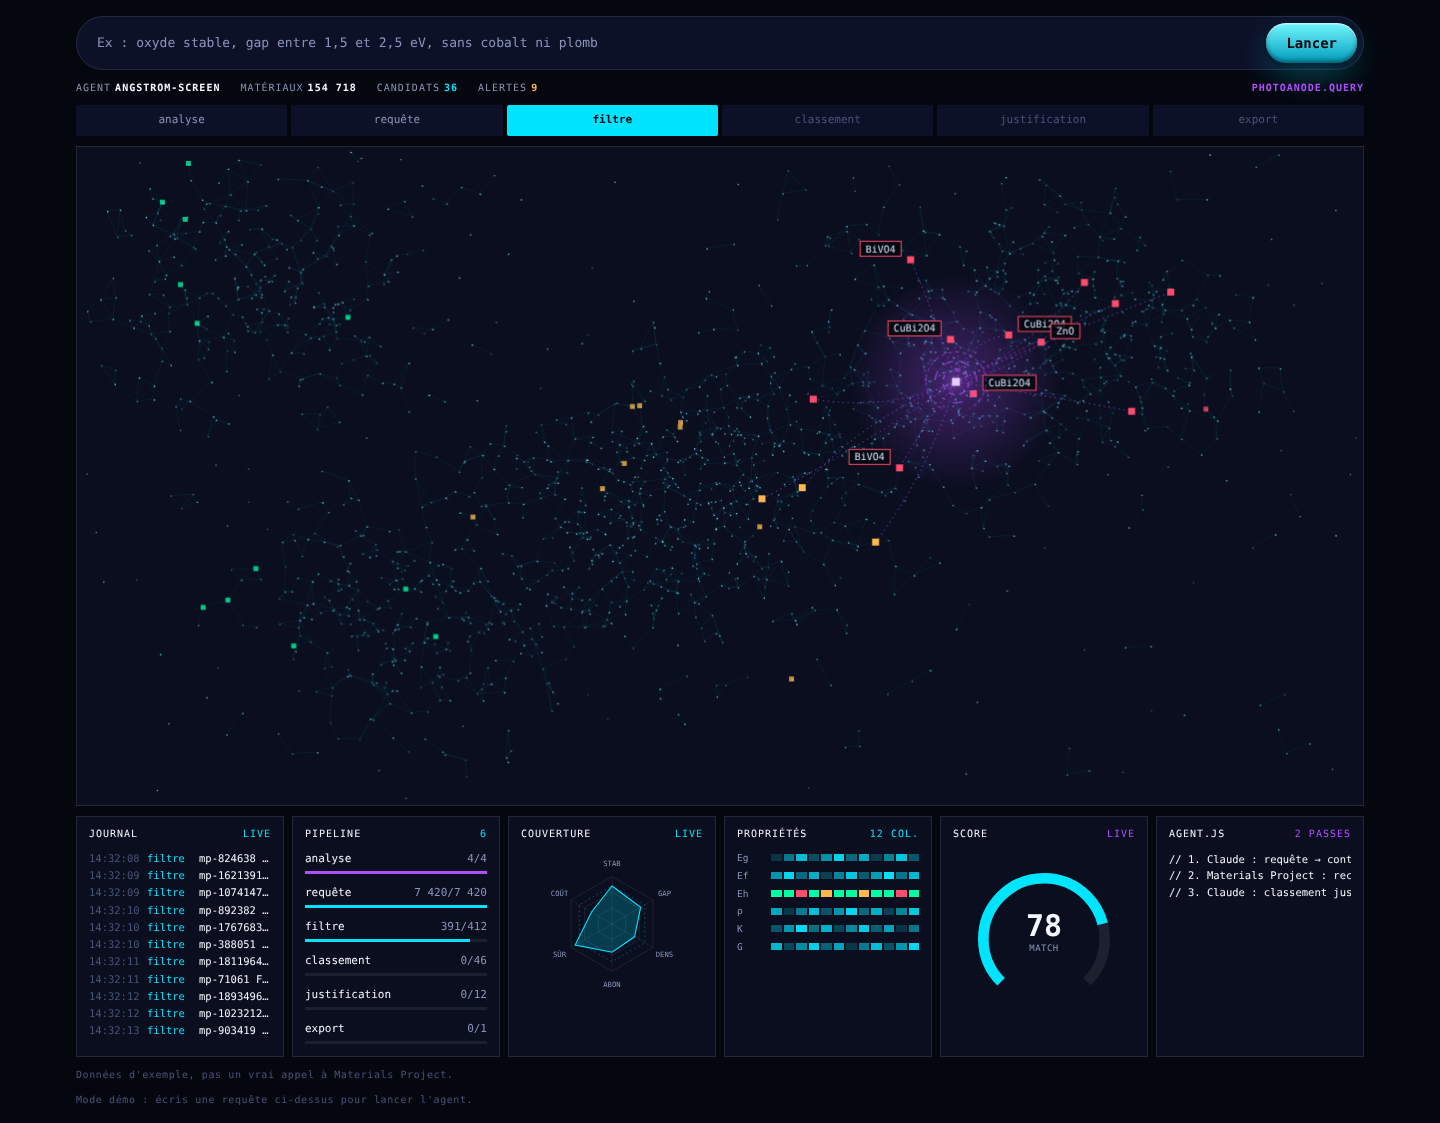
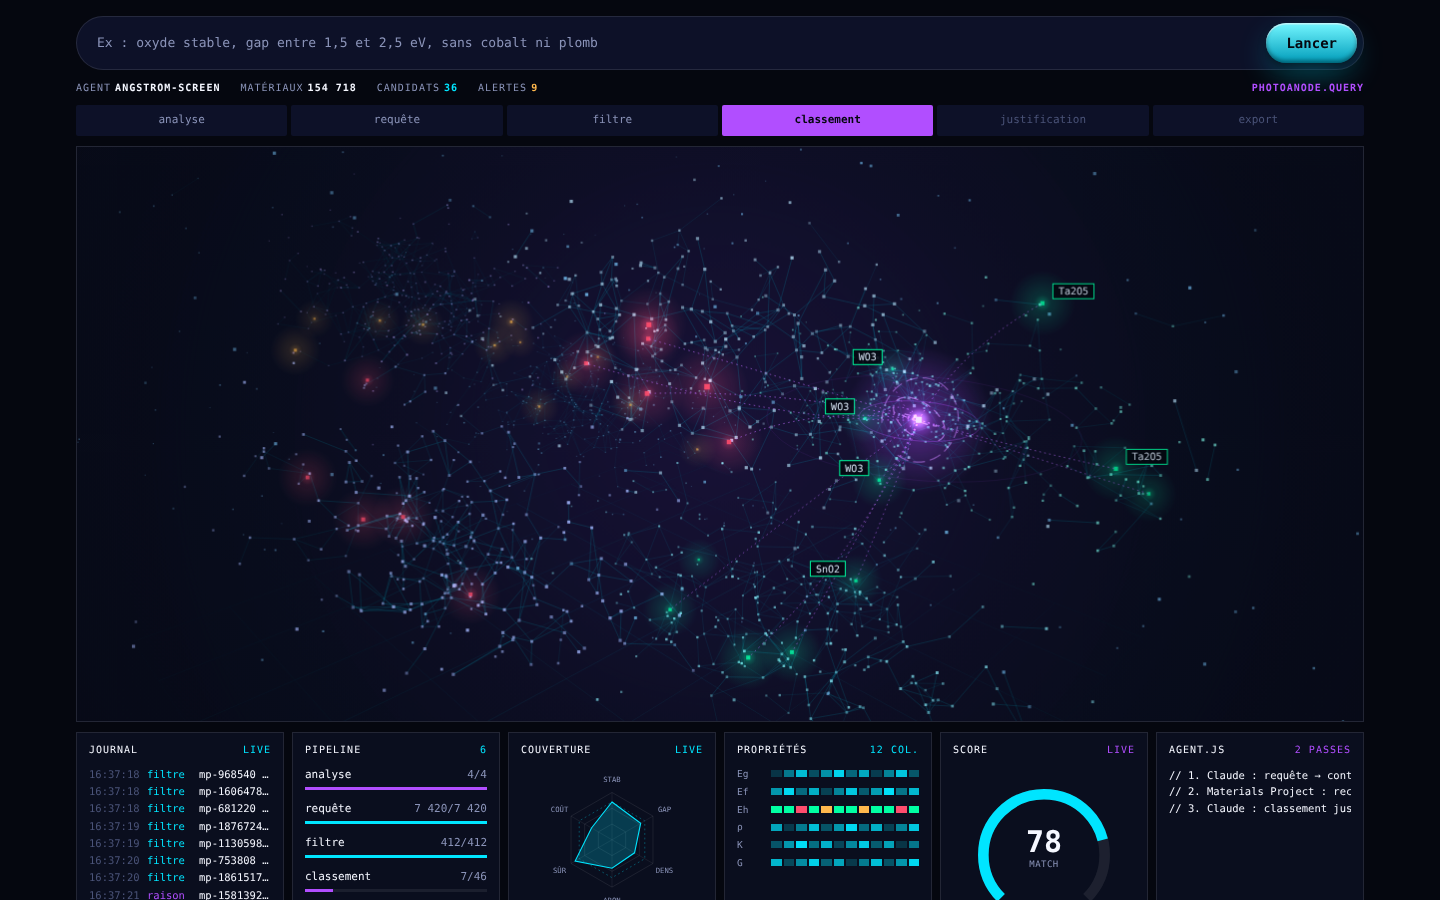
Champ de matériaux en 3D : perspective, orbite lente, parallaxe souris, brume de profondeur, halos additifs, ondes de lecture, anneaux orbitaux inclinés
Claude-Session: https://claude.ai/code/session_01Wu4MGs3PsRkXvtoSFz2Pch

diff --git a/src/lib/hud/AgentField.svelte b/src/lib/hud/AgentField.svelte
@@ -5,9 +5,13 @@
   let { families, candidates, focus = 0, seed = 7 } = $props(); // candidates: { formula, status: "stable"|"meta"|"unstable", cluster }[]
 
   const COL = { stable: '#00FFA3', meta: '#FFB84D', unstable: '#FF4D6D' };
+  // teinte des points par famille : du cyan au bleu glacé, avec une pointe de violet
+  const TINT = ['#8CF0FF', '#7FD0FF', '#A5B8FF', '#7DF5E6', '#B9A6FF', '#9FC4DD'];
+  const D = 3.3; // distance caméra
   let host, cv, rebuild = null;
 
   function rng(a) { return () => { a |= 0; a = (a + 0x6d2b79f5) | 0; let t = Math.imul(a ^ (a >>> 15), 1 | a); t = (t + Math.imul(t ^ (t >>> 7), 61 | t)) ^ t; return ((t ^ (t >>> 14)) >>> 0) / 4294967296; }; }
+  const clamp = (v, a = 0, b = 1) => Math.min(b, Math.max(a, v));
 
   $effect(() => {
     candidates.length; families.length;
@@ -15,79 +19,180 @@
   });
 
   onMount(() => {
-    const ctx = cv.getContext("2d"), bg = document.createElement('canvas'), bctx = bg.getContext('2d');
+    const ctx = cv.getContext("2d");
     const reduce = matchMedia('(prefers-reduced-motion: reduce)').matches;
-    let W = 0, H = 0, dpr = 1, raf = 0, last = 0, t0 = 0;
-    let pts = [];
-    let centers = [];
-    let cands = [];
-    const hub = { x: 0, y: 0 };
+    let W = 0, H = 0, dpr = 1, raf = 0, last = 0, t0 = 0, m = 600;
+    let N = 0, px, py, pz, pph, pc, pa, sx, sy, sc, zc; // points (Float32Array)
+    let edges = [], centers = [], cands = [];
+    const hub = { x: 0, y: 0, z: 0 }, cam = { x: 0, y: 0, z: 0 }, ptr = { x: 0, y: 0, sx: 0, sy: 0 };
+
+    // sprites lumineux pré-rendus (halo additif)
+    const sprite = (rgb) => { const c = document.createElement('canvas'); c.width = c.height = 64; const g = c.getContext('2d'), r = g.createRadialGradient(32, 32, 0, 32, 32, 32); r.addColorStop(0, `rgba(${rgb},.95)`); r.addColorStop(0.25, `rgba(${rgb},.35)`); r.addColorStop(1, `rgba(${rgb},0)`); g.fillStyle = r; g.fillRect(0, 0, 64, 64); return c; };
+    const SPR = { stable: sprite('0,255,163'), meta: sprite('255,184,77'), unstable: sprite('255,77,109'), hub: sprite('177,78,255'), hubCore: sprite('233,204,255') };
 
     function build() {
-      const r = host.getBoundingClientRect(); W = r.width; H = r.height; dpr = Math.min(2, devicePixelRatio || 1);
-      cv.width = bg.width = Math.round(W * dpr); cv.height = bg.height = Math.round(H * dpr);
-      const rnd = rng(seed), m = Math.min(W, H), N = Math.round(Math.max(700, Math.min(2300, (W * H) / 420)));
-      const n = families.length;
-      centers = families.map((_, i) => ({ x: (0.15 + 0.7 * ((i * 0.381) % 1)) * W, y: (0.22 + 0.58 * ((i * 0.618) % 1)) * H, s: 0.13 * m }));
+      const r = host.getBoundingClientRect(); W = r.width; H = r.height; dpr = Math.min(2, devicePixelRatio || 1); m = Math.min(W, H);
+      cv.width = Math.round(W * dpr); cv.height = Math.round(H * dpr);
+      const rnd = rng(seed), n = Math.max(1, families.length), asp = clamp((W / H) * 0.8, 1, 1.9);
+      N = Math.round(Math.max(900, Math.min(2600, (W * H) / 380)));
+      // centres d'amas répartis en spirale sur une sphère aplatie
+      centers = families.map((_, i) => { const y = 1 - (2 * (i + 0.5)) / n, rr = Math.sqrt(Math.max(0, 1 - y * y)), th = i * 2.399963; return { x: Math.cos(th) * rr * 0.95 * asp, y: y * 0.6, z: Math.sin(th) * rr * 0.95, s: 0.24 }; });
       const g = () => Math.sqrt(-2 * Math.log(rnd() + 1e-9)) * Math.cos(6.2831853 * rnd());
-      pts = [];
-      while (pts.length < N) {
-        const c = rnd() < 0.1 ? -1 : Math.floor(rnd() * n);
-        const x = c < 0 ? rnd() * W : centers[c].x + g() * centers[c].s, y = c < 0 ? rnd() * H : centers[c].y + g() * centers[c].s * 0.8;
-        if (x < 4 || y < 4 || x > W - 4 || y > H - 4) continue;
-        pts.push({ x, y, c, a: 0.25 + rnd() * 0.6 });
+      [px, py, pz, pph, pa, sx, sy, sc, zc] = Array.from({ length: 9 }, () => new Float32Array(N));
+      pc = new Int8Array(N);
+      for (let i = 0; i < N; i++) {
+        const c = rnd() < 0.14 ? -1 : Math.floor(rnd() * n);
+        if (c < 0) { px[i] = (rnd() * 2 - 1) * 1.5 * asp; py[i] = (rnd() * 2 - 1) * 1.1; pz[i] = (rnd() * 2 - 1) * 1.5; }
+        else { const k = centers[c]; px[i] = k.x + g() * k.s * asp; py[i] = k.y + g() * k.s * 0.75; pz[i] = k.z + g() * k.s; }
+        pc[i] = c; pph[i] = rnd() * 6.2832; pa[i] = 0.5 + rnd() * 0.5;
       }
-      bctx.setTransform(dpr, 0, 0, dpr, 0, 0); bctx.clearRect(0, 0, W, H); bctx.lineWidth = 0.6;
-      const cell = 30, grid = new Map();
-      pts.forEach((p, i) => { const k = `${(p.x / cell) | 0},${(p.y / cell) | 0}`; (grid.get(k) ?? grid.set(k, []).get(k)).push(i); });
-      pts.forEach((p, i) => {
-        const cx = (p.x / cell) | 0, cy = (p.y / cell) | 0, near = [];
-        for (let dx = -1; dx <= 1; dx++) for (let dy = -1; dy <= 1; dy++) for (const j of grid.get(`${cx + dx},${cy + dy}`) ?? []) { if (j <= i) continue; const d = Math.hypot(pts[j].x - p.x, pts[j].y - p.y); if (d < 30) near.push([d, j]); }
-        near.sort((a, b) => a[0] - b[0]).slice(0, 2).forEach(([, j]) => { bctx.strokeStyle = 'rgba(0,229,255,.13)'; bctx.beginPath(); bctx.moveTo(p.x, p.y); bctx.lineTo(pts[j].x, pts[j].y); bctx.stroke(); });
-      });
-      pts.forEach((p) => { bctx.fillStyle = `rgba(140,240,255,${p.a})`; bctx.fillRect(p.x, p.y, 1.4, 1.4); });
-      // pose chaque candidat sur un point de son amas
+      // arêtes : 2 plus proches voisins en 3D (grille spatiale)
+      const cell = 0.16, key = (x, y, z) => `${Math.floor(x / cell)},${Math.floor(y / cell)},${Math.floor(z / cell)}`, grid = new Map();
+      for (let i = 0; i < N; i++) { const k = key(px[i], py[i], pz[i]); (grid.get(k) ?? grid.set(k, []).get(k)).push(i); }
+      edges = [];
+      for (let i = 0; i < N; i++) {
+        const cx = Math.floor(px[i] / cell), cy = Math.floor(py[i] / cell), cz = Math.floor(pz[i] / cell), near = [];
+        for (let a = -1; a <= 1; a++) for (let b = -1; b <= 1; b++) for (let c = -1; c <= 1; c++) for (const j of grid.get(`${cx + a},${cy + b},${cz + c}`) ?? []) { if (j <= i) continue; const d = Math.hypot(px[j] - px[i], py[j] - py[i], pz[j] - pz[i]); if (d < cell) near.push([d, j]); }
+        near.sort((p, q) => p[0] - q[0]).slice(0, 2).forEach(([, j]) => edges.push(i, j));
+      }
       cands = candidates.map((c) => {
-        const pool = pts.filter((p) => p.c === c.cluster); const p = pool[Math.floor(rnd() * pool.length)] ?? pts[0];
-        return { x: p.x, y: p.y, f: c.formula, st: c.status === 'meta' ? 'meta' : c.status, c: c.cluster };
+        const pool = []; for (let i = 0; i < N; i++) if (pc[i] === c.cluster) pool.push(i);
+        const i = pool.length ? pool[Math.floor(rnd() * pool.length)] : 0;
+        return { x: px[i], y: py[i], z: pz[i], f: c.formula, st: c.status === 'meta' ? 'meta' : c.status, c: c.cluster, sx: 0, sy: 0, sc: 1, zc: D };
       });
-      hub.x = centers[focus]?.x ?? W / 2; hub.y = centers[focus]?.y ?? H / 2;
+      const k = centers[focus] ?? centers[0] ?? { x: 0, y: 0, z: 0 };
+      hub.x = k.x; hub.y = k.y; hub.z = k.z; cam.x = k.x * 0.5; cam.y = k.y * 0.5; cam.z = k.z * 0.5;
     }
 
+    // projection perspective (rotation yaw puis pitch autour de la cible caméra)
+    let cY = 1, sY = 0, cP = 1, sP = 0, F = 600;
+    function proj(x, y, z, out) {
+      const vx = x - cam.x, vy = y - cam.y, vz = z - cam.z;
+      const x1 = vx * cY + vz * sY, z1 = -vx * sY + vz * cY;
+      const y2 = vy * cP - z1 * sP, z2 = vy * sP + z1 * cP + D;
+      const s = z2 > 0.25 ? F / z2 : 0;
+      out.x = W / 2 + x1 * s; out.y = H / 2 + y2 * s; out.s = s; out.z = z2; return out;
+    }
+    const P = { x: 0, y: 0, s: 0, z: 0 }, Q = { x: 0, y: 0, s: 0, z: 0 }, R = { x: 0, y: 0, s: 0, z: 0 };
+    const depthT = (z) => clamp((z - (D - 1.5)) / 3.2); // 0 proche → 1 loin
+
     function draw(t, dt) {
-      const tgt = centers[focus] ?? centers[0]; hub.x += (tgt.x - hub.x) * Math.min(1, dt * 1.7); hub.y += (tgt.y - hub.y) * Math.min(1, dt * 1.7);
-      const reach = [...cands].map((c) => ({ c, d: Math.hypot(c.x - hub.x, c.y - hub.y) })).sort((a, b) => a.d - b.d).slice(0, 14);
-      ctx.setTransform(dpr, 0, 0, dpr, 0, 0); ctx.clearRect(0, 0, W, H); ctx.drawImage(bg, 0, 0, W, H);
-      cands.forEach((c) => { ctx.fillStyle = COL[c.st]; ctx.globalAlpha = 0.75; ctx.fillRect(c.x - 2.5, c.y - 2.5, 5, 5); ctx.globalAlpha = 1; });
-      const gr = ctx.createRadialGradient(hub.x, hub.y, 0, hub.x, hub.y, 110); gr.addColorStop(0, 'rgba(177,78,255,.34)'); gr.addColorStop(1, 'rgba(177,78,255,0)');
-      ctx.fillStyle = gr; ctx.fillRect(hub.x - 110, hub.y - 110, 220, 220);
-      reach.forEach(({ c }, k) => {
-        const dx = c.x - hub.x, dy = c.y - hub.y, L = Math.hypot(dx, dy) || 1, w = Math.sin(t * 1.5 + k * 1.7) * 14 + (k % 2 ? 10 : -10);
-        const mx = (hub.x + c.x) / 2 + (-dy / L) * w, my = (hub.y + c.y) / 2 + (dx / L) * w;
-        ctx.strokeStyle = 'rgba(177,78,255,.7)'; ctx.lineWidth = 1; ctx.setLineDash([1.5, 3.5]); ctx.beginPath(); ctx.moveTo(hub.x, hub.y); ctx.quadraticCurveTo(mx, my, c.x, c.y); ctx.stroke(); ctx.setLineDash([]);
-        ctx.fillStyle = COL[c.st]; ctx.fillRect(c.x - 3.5, c.y - 3.5, 7, 7);
+      const k = centers[focus] ?? centers[0]; if (!k) return;
+      const e = Math.min(1, dt * 1.6);
+      hub.x += (k.x - hub.x) * e; hub.y += (k.y - hub.y) * e; hub.z += (k.z - hub.z) * e;
+      cam.x += (hub.x * 0.55 - cam.x) * e * 0.8; cam.y += (hub.y * 0.55 - cam.y) * e * 0.8; cam.z += (hub.z * 0.55 - cam.z) * e * 0.8;
+      ptr.sx += (ptr.x - ptr.sx) * Math.min(1, dt * 3); ptr.sy += (ptr.y - ptr.sy) * Math.min(1, dt * 3);
+      const yaw = (reduce ? 0.6 : t * 0.11) + ptr.sx * 0.45, pitch = 0.32 + Math.sin(t * 0.17) * 0.05 + ptr.sy * 0.22;
+      cY = Math.cos(yaw); sY = Math.sin(yaw); cP = Math.cos(pitch); sP = Math.sin(pitch); F = m * 1.5;
+
+      ctx.setTransform(dpr, 0, 0, dpr, 0, 0); ctx.clearRect(0, 0, W, H);
+      const bgG = ctx.createRadialGradient(W / 2, H * 0.48, 0, W / 2, H * 0.48, Math.max(W, H) * 0.7);
+      bgG.addColorStop(0, 'rgba(46,24,92,.42)'); bgG.addColorStop(0.55, 'rgba(12,16,40,.25)'); bgG.addColorStop(1, 'rgba(5,7,15,0)');
+      ctx.fillStyle = bgG; ctx.fillRect(0, 0, W, H);
+
+      // sol en perspective (repère de profondeur)
+      ctx.lineWidth = 1; ctx.strokeStyle = 'rgba(0,229,255,1)';
+      for (let i = -4; i <= 4; i++) for (const ax of [0, 1]) {
+        const a = ax ? proj(i * 0.4, 1.05, -1.6, P) : proj(-1.6, 1.05, i * 0.4, P), b = ax ? proj(i * 0.4, 1.05, 1.6, Q) : proj(1.6, 1.05, i * 0.4, Q);
+        if (!P.s || !Q.s) continue;
+        ctx.globalAlpha = 0.07 * (1 - Math.abs(i) / 5); ctx.beginPath(); ctx.moveTo(P.x, P.y); ctx.lineTo(Q.x, Q.y); ctx.stroke();
+      }
+
+      // points : légère respiration dans le temps (4e dimension)
+      for (let i = 0; i < N; i++) {
+        const ph = pph[i], w = reduce ? 0 : 0.018;
+        const x = px[i] + Math.sin(t * 0.6 + ph) * w, y = py[i] + Math.cos(t * 0.5 + ph * 1.3) * w, z = pz[i] + Math.sin(t * 0.45 + ph * 0.7) * w;
+        proj(x, y, z, P); sx[i] = P.x; sy[i] = P.y; sc[i] = P.s; zc[i] = P.z;
+      }
+      // arêtes par 3 tranches de profondeur (un seul tracé par tranche)
+      ctx.lineWidth = 0.7; ctx.strokeStyle = 'rgba(0,229,255,1)';
+      const alphas = [0.2, 0.11, 0.05];
+      for (let b = 0; b < 3; b++) {
+        ctx.globalAlpha = alphas[b]; ctx.beginPath();
+        for (let q = 0; q < edges.length; q += 2) {
+          const i = edges[q], j = edges[q + 1]; if (!sc[i] || !sc[j]) continue;
+          if (Math.min(2, (depthT((zc[i] + zc[j]) / 2) * 3) | 0) !== b) continue;
+          ctx.moveTo(sx[i], sy[i]); ctx.lineTo(sx[j], sy[j]);
+        }
+        ctx.stroke();
+      }
+      for (let f = -1; f < TINT.length; f++) {
+        ctx.fillStyle = f < 0 ? '#6FB6E8' : TINT[f];
+        for (let i = 0; i < N; i++) {
+          if (pc[i] !== f || !sc[i]) continue;
+          const dt_ = depthT(zc[i]), s = clamp(sc[i] * 0.0095 * (1 - dt_ * 0.35), 0.9, 3.2);
+          ctx.globalAlpha = pa[i] * (1 - dt_ * 0.7); ctx.fillRect(sx[i] - s / 2, sy[i] - s / 2, s, s);
+        }
+      }
+      ctx.globalAlpha = 1;
+
+      // ondes de lecture : coquilles qui s'étendent depuis le hub
+      for (let w = 0; w < 2; w++) {
+        const ph = ((t * 0.32 + w * 0.5) % 1), rad = 0.04 + ph * 0.7; ctx.strokeStyle = 'rgba(177,78,255,1)'; ctx.globalAlpha = (1 - ph) * 0.35; ctx.lineWidth = 1; ctx.beginPath();
+        for (let a = 0; a <= 64; a++) { const th = (a / 64) * 6.2832; proj(hub.x + Math.cos(th) * rad, hub.y, hub.z + Math.sin(th) * rad, P); a ? ctx.lineTo(P.x, P.y) : ctx.moveTo(P.x, P.y); }
+        ctx.stroke();
+      }
+      ctx.globalAlpha = 1;
+
+      // candidats triés du plus loin au plus proche, halos additifs
+      cands.forEach((c) => { proj(c.x, c.y, c.z, P); c.sx = P.x; c.sy = P.y; c.sc = P.s; c.zc = P.z; c.d = Math.hypot(c.x - hub.x, c.y - hub.y, c.z - hub.z); });
+      const order = [...cands].filter((c) => c.sc).sort((a, b) => b.zc - a.zc);
+      ctx.globalCompositeOperation = 'lighter';
+      order.forEach((c) => { const g = c.sc * 0.2; ctx.globalAlpha = 0.55 * (1 - depthT(c.zc) * 0.6); ctx.drawImage(SPR[c.st], c.sx - g / 2, c.sy - g / 2, g, g); });
+      ctx.globalCompositeOperation = 'source-over';
+      order.forEach((c) => { const s = Math.max(3, c.sc * 0.014) * (1 - depthT(c.zc) * 0.3); ctx.globalAlpha = 1 - depthT(c.zc) * 0.55; ctx.fillStyle = COL[c.st]; ctx.fillRect(c.sx - s / 2, c.sy - s / 2, s, s); });
+      ctx.globalAlpha = 1;
+
+      // filaments vers les candidats les plus proches du hub
+      proj(hub.x, hub.y, hub.z, R);
+      const reach = [...cands].filter((c) => c.sc).sort((a, b) => a.d - b.d).slice(0, 14);
+      reach.forEach((c, i) => {
+        const dx = c.x - hub.x, dy = c.y - hub.y, dz = c.z - hub.z, L = Math.hypot(dx, dy, dz) || 1, w = (Math.sin(t * 1.5 + i * 1.7) * 0.07 + (i % 2 ? 0.05 : -0.05));
+        proj((hub.x + c.x) / 2 + (-dz / L) * w, (hub.y + c.y) / 2 + w * 0.6, (hub.z + c.z) / 2 + (dx / L) * w, Q);
+        ctx.strokeStyle = 'rgba(190,110,255,1)'; ctx.globalAlpha = 0.75 * (1 - depthT(c.zc) * 0.5); ctx.lineWidth = 1; ctx.setLineDash([1.5, 3.5]); ctx.beginPath(); ctx.moveTo(R.x, R.y); ctx.quadraticCurveTo(Q.x, Q.y, c.sx, c.sy); ctx.stroke(); ctx.setLineDash([]);
       });
+      ctx.globalAlpha = 1;
+
+      // étiquettes (les plus proches, face caméra)
       ctx.font = '10px JetBrains Mono, ui-monospace, monospace';
-      reach.slice(0, 6).forEach(({ c }) => {
-        const w = ctx.measureText(c.f).width + 12; let lx = c.x > hub.x ? c.x + 9 : c.x - w - 9, ly = c.y - 19;
-        lx = Math.min(W - w - 4, Math.max(4, lx)); ly = Math.min(H - 8, Math.max(4, ly));
+      reach.filter((c) => depthT(c.zc) < 0.75).slice(0, 6).forEach((c) => {
+        const w = ctx.measureText(c.f).width + 12; let lx = c.sx > R.x ? c.sx + 10 : c.sx - w - 10, ly = c.sy - 20;
+        lx = clamp(lx, 4, W - w - 4); ly = clamp(ly, 4, H - 20);
         ctx.fillStyle = 'rgba(5,7,15,.86)'; ctx.fillRect(lx, ly, w, 16); ctx.strokeStyle = COL[c.st]; ctx.strokeRect(lx + 0.5, ly + 0.5, w - 1, 15); ctx.fillStyle = '#D5E3F2'; ctx.fillText(c.f, lx + 6, ly + 11.5);
       });
-      ([[13, 0.9, 6], [21, -0.6, 10], [30, 0.4, 4]]).forEach(([r, s, d], k) => {
-        ctx.strokeStyle = `rgba(177,78,255,${0.9 - k * 0.2})`; ctx.lineWidth = 1.2; ctx.setLineDash([d, d * 0.8]); ctx.beginPath(); ctx.arc(hub.x, hub.y, r, t * s, t * s + Math.PI * 1.7); ctx.stroke(); ctx.setLineDash([]);
+
+      // hub : halo, anneaux orbitaux inclinés, noyau pulsé
+      ctx.globalCompositeOperation = 'lighter';
+      const hg = R.s * 0.55, pulse = 1 + Math.sin(t * 2.2) * 0.08; ctx.globalAlpha = 0.9; ctx.drawImage(SPR.hub, R.x - (hg * pulse) / 2, R.y - (hg * pulse) / 2, hg * pulse, hg * pulse);
+      ctx.globalCompositeOperation = 'source-over';
+      [[0.07, 0.9, 0.5], [0.11, -0.6, 1.1], [0.16, 0.4, 1.9]].forEach(([rad, sp, tilt], i) => {
+        ctx.strokeStyle = `rgba(200,130,255,${0.95 - i * 0.2})`; ctx.globalAlpha = 1; ctx.lineWidth = 1.2; ctx.setLineDash([6 + i * 3, 5]); ctx.beginPath();
+        for (let a = 0; a <= 48; a++) {
+          const th = t * sp + (a / 48) * Math.PI * 1.7, ox = Math.cos(th) * rad, oz = Math.sin(th) * rad, y = oz * Math.sin(tilt), z = oz * Math.cos(tilt);
+          proj(hub.x + ox, hub.y + y, hub.z + z, P); a ? ctx.lineTo(P.x, P.y) : ctx.moveTo(P.x, P.y);
+        }
+        ctx.stroke(); ctx.setLineDash([]);
       });
-      ctx.fillStyle = '#E9CCFF'; ctx.shadowColor = '#B14EFF'; ctx.shadowBlur = 14; ctx.fillRect(hub.x - 4, hub.y - 4, 8, 8); ctx.shadowBlur = 0;
+      ctx.globalCompositeOperation = 'lighter'; const cg = R.s * 0.09; ctx.drawImage(SPR.hubCore, R.x - cg / 2, R.y - cg / 2, cg, cg); ctx.globalCompositeOperation = 'source-over';
+      ctx.fillStyle = '#F4E4FF'; ctx.fillRect(R.x - 3, R.y - 3, 6, 6);
+
+      // vignette
+      const vg = ctx.createRadialGradient(W / 2, H / 2, Math.min(W, H) * 0.35, W / 2, H / 2, Math.max(W, H) * 0.75); vg.addColorStop(0, 'rgba(5,7,15,0)'); vg.addColorStop(1, 'rgba(5,7,15,.6)');
+      ctx.fillStyle = vg; ctx.fillRect(0, 0, W, H);
     }
 
     function loop(now) { const dt = Math.min(0.1, (now - last) / 1000); last = now; draw((now - t0) / 1000, dt); raf = requestAnimationFrame(loop); }
     build();
     rebuild = build;
+    const onMove = (ev) => { const r = host.getBoundingClientRect(); ptr.x = clamp(((ev.clientX - r.left) / r.width) * 2 - 1, -1, 1); ptr.y = clamp(((ev.clientY - r.top) / r.height) * 2 - 1, -1, 1); };
+    const onLeave = () => { ptr.x = 0; ptr.y = 0; };
+    if (!reduce) { host.addEventListener('pointermove', onMove); host.addEventListener('pointerleave', onLeave); }
     if (reduce) draw(14, 1); else raf = requestAnimationFrame((n) => { t0 = last = n; loop(n); });
     const ro = new ResizeObserver(() => { build(); if (reduce) draw(14, 1); }); ro.observe(host);
-    return () => { cancelAnimationFrame(raf); ro.disconnect(); };
+    return () => { cancelAnimationFrame(raf); ro.disconnect(); host.removeEventListener('pointermove', onMove); host.removeEventListener('pointerleave', onLeave); };
   });
 </script>
 
 <div bind:this={host} class="relative h-[clamp(380px,64vh,660px)] overflow-hidden border border-white/10 bg-nano-base">
-  <canvas bind:this={cv} class="absolute inset-0 block h-full w-full" aria-label="Nuage de matériaux parcouru par l'agent"></canvas>
+  <canvas bind:this={cv} class="absolute inset-0 block h-full w-full" aria-label="Nuage 3D de matériaux parcouru par l'agent"></canvas>
 </div>
